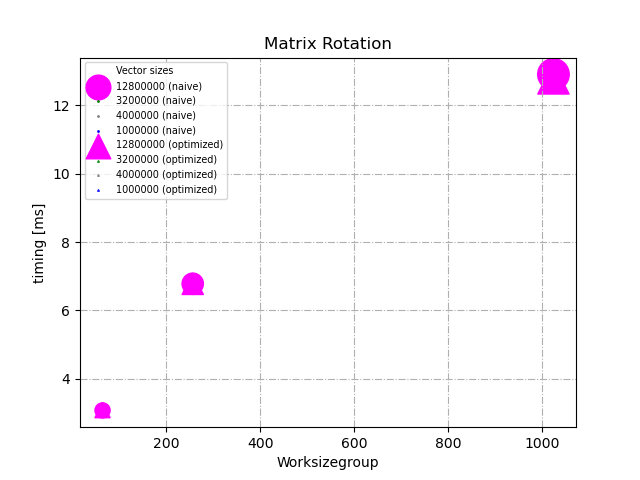
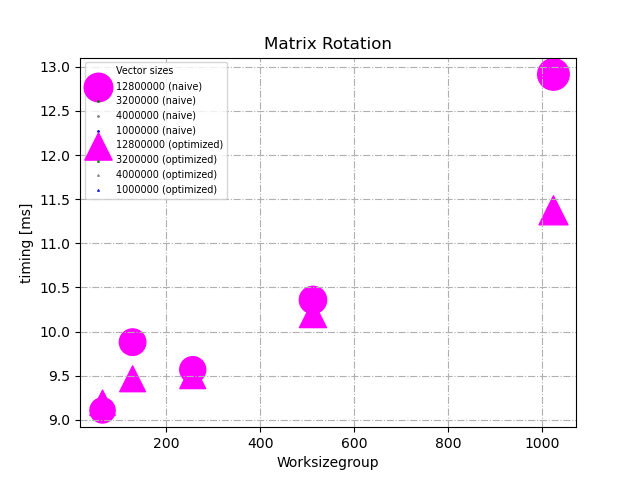
lets roll

diff --git a/Assignment1/src/main.cpp b/Assignment1/src/main.cpp
@@ -21,74 +21,74 @@ int main()
         renderdoc::initialize();
         renderdoc::startCapture();
 
-        //CSVWriter csv;
+        CSVWriter csv;
 
-        //const unsigned int num_iterations = 1;
+        const unsigned int num_iterations_task1 = 50;
 
-        //csv.newRow() << "dx" << "dy" << "dz" << "vecsize" << "timing";
+        csv.newRow() << "dx" << "dy" << "dz" << "vecsize" << "timing";
 
-        //std::array<unsigned int, 4> workload_sizes_w = { 2048, 1024, 512, 256 };
-        //std::array<unsigned int, 6> dx_s = { 1024, 512, 256, 128, 64, 32};
+        std::array<unsigned int, 4> workload_sizes_w_task1 = { 2048, 1024, 512, 256 };
+        std::array<unsigned int, 6> dx_s_task1 = { 1024, 512, 256, 128, 64, 32};
 
-        //A1_Task1 task(app);
-        //task.prepare(workload_sizes_w[0] * workload_sizes_w[0] + 31);
-        //for (size_t workload_size_w_index = 0; workload_size_w_index < workload_sizes_w.size(); workload_size_w_index++) {
-        //    
-        //    for (size_t dx_index = 0; dx_index < dx_s.size(); dx_index++) {
+        A1_Task1 task(app);
+        task.prepare(workload_sizes_w_task1[0] * workload_sizes_w_task1[0] + 31);
+        for (size_t workload_size_w_index = 0; workload_size_w_index < workload_sizes_w_task1.size(); workload_size_w_index++) {
+            
+            for (size_t dx_index = 0; dx_index < dx_s_task1.size(); dx_index++) {
 
-        //        float mstime = 0;
+                float mstime = 0;
 
-        //        for (size_t iteration_index = 0; iteration_index < num_iterations; iteration_index++) {
+                for (size_t iteration_index = 0; iteration_index < num_iterations_task1; iteration_index++) {
 
-        //            task.compute(dx_s[dx_index], 1, 1, "vectorAdd");
-        //            task.checkDefaultValues();
-        //            mstime += task.mstime;
+                    task.compute(dx_s_task1[dx_index], 1, 1, "vectorAdd");
+                    task.checkDefaultValues();
+                    mstime += task.mstime;
 
-        //        }
+                }
 
-        //        mstime /= num_iterations;
-        //        //std::cout << "Naive version " << "took: " << mstime << " ms" << std::endl;
+                mstime /= num_iterations_task1;
+                //std::cout << "Naive version " << "took: " << mstime << " ms" << std::endl;
 
-        //        csv.newRow() << dx_s[dx_index] << 1 << 1 <<
-        //            workload_sizes_w[workload_size_w_index] * workload_sizes_w[workload_size_w_index] << mstime;
+                csv.newRow() << dx_s_task1[dx_index] << 1 << 1 <<
+                    workload_sizes_w_task1[workload_size_w_index] * workload_sizes_w_task1[workload_size_w_index] << mstime;
 
-        //    }
-        //}
+            }
+        }
 
-        //std::cout << csv << std::endl;
-        //csv.writeToFile("vectorAddition.csv" ,false);
+        std::cout << csv << std::endl;
+        csv.writeToFile("vectorAddition.csv" ,false);
 
 
         CSVWriter csv_task2;
 
         csv_task2.newRow() << "dx" << "dy" << "dz" << "vecsize" << "timing naive" << "timing optimized";
 
-        unsigned int num_iterations = 1;
-        std::array<unsigned int, 3> workload_sizes_w = { 6400,4000,3200 };
+        unsigned int num_iterations_task2 = 10;
+        std::array<unsigned int, 3> workload_sizes_w_task2 = { 6400,4000,3200 };
         std::array<unsigned int, 3> workload_sizes_h = { 6400,4000,3200 };
-        std::array<unsigned int, 3> dx_s = { 32,16,8 };
+        std::array<unsigned int, 3> dx_s_task2 = { 32,16,8 };
         std::array<unsigned int, 3> dy_s = { 32,16,8 };
 
-        for (size_t workload_size_w_index = 0; workload_size_w_index < workload_sizes_w.size(); workload_size_w_index++) {
+        for (size_t workload_size_w_index = 0; workload_size_w_index < workload_sizes_w_task2.size(); workload_size_w_index++) {
             for (size_t workload_size_h_index = 0; workload_size_h_index < workload_sizes_h.size(); workload_size_h_index++) {
-                for (size_t dx_index = 0; dx_index < dx_s.size(); dx_index++) {
+                for (size_t dx_index = 0; dx_index < dx_s_task2.size(); dx_index++) {
                     for (size_t dy_index = 0; dy_index < dy_s.size(); dy_index++) {
 
                         float mstime_naive = 0;
                         float mstime_optimized = 0;
 
                         A1_Task2 A1task2(app);
-                        A1task2.prepare(workload_sizes_w[workload_size_w_index], workload_sizes_h[workload_size_h_index]);
+                        A1task2.prepare(workload_sizes_w_task2[workload_size_w_index], workload_sizes_h[workload_size_h_index]);
 
-                        for (size_t iteration_index = 0; iteration_index < num_iterations; iteration_index++) {
+                        for (size_t iteration_index = 0; iteration_index < num_iterations_task2; iteration_index++) {
 
-                            A1task2.compute(dx_s[dx_index], dx_s[dx_index], 1, "matrixRotNaive");
+                            A1task2.compute(dx_s_task2[dx_index], dy_s[dy_index], 1, "matrixRotNaive");
                             A1task2.checkDefaultValues();
 
                             mstime_naive += A1task2.mstime;
                             //std::cout << "Naive version " << "took: " << mstime_naive << " ms" << std::endl;
 
-                            A1task2.compute(dx_s[dx_index], dx_s[dx_index], 1, "matrixRotOpti");
+                            A1task2.compute(dx_s_task2[dx_index], dy_s[dy_index], 1, "matrixRotOpti");
                             A1task2.checkDefaultValues();
 
                             mstime_optimized += A1task2.mstime;
@@ -98,11 +98,11 @@ int main()
 
                         A1task2.cleanup();
 
-                        mstime_naive /= num_iterations;
-                        mstime_optimized /= num_iterations;
+                        mstime_naive /= num_iterations_task2;
+                        mstime_optimized /= num_iterations_task2;
 
-                        csv_task2.newRow() << dx_s[dx_index] << dx_s[dx_index] << 1 <<
-                            workload_sizes_w[workload_size_w_index] * workload_sizes_h[workload_size_h_index] << mstime_naive << mstime_optimized;
+                        csv_task2.newRow() << dx_s_task2[dx_index] << dy_s[dy_index] << 1 <<
+                            workload_sizes_w_task2[workload_size_w_index] * workload_sizes_h[workload_size_h_index] << mstime_naive << mstime_optimized;
 
                     }
                 }
